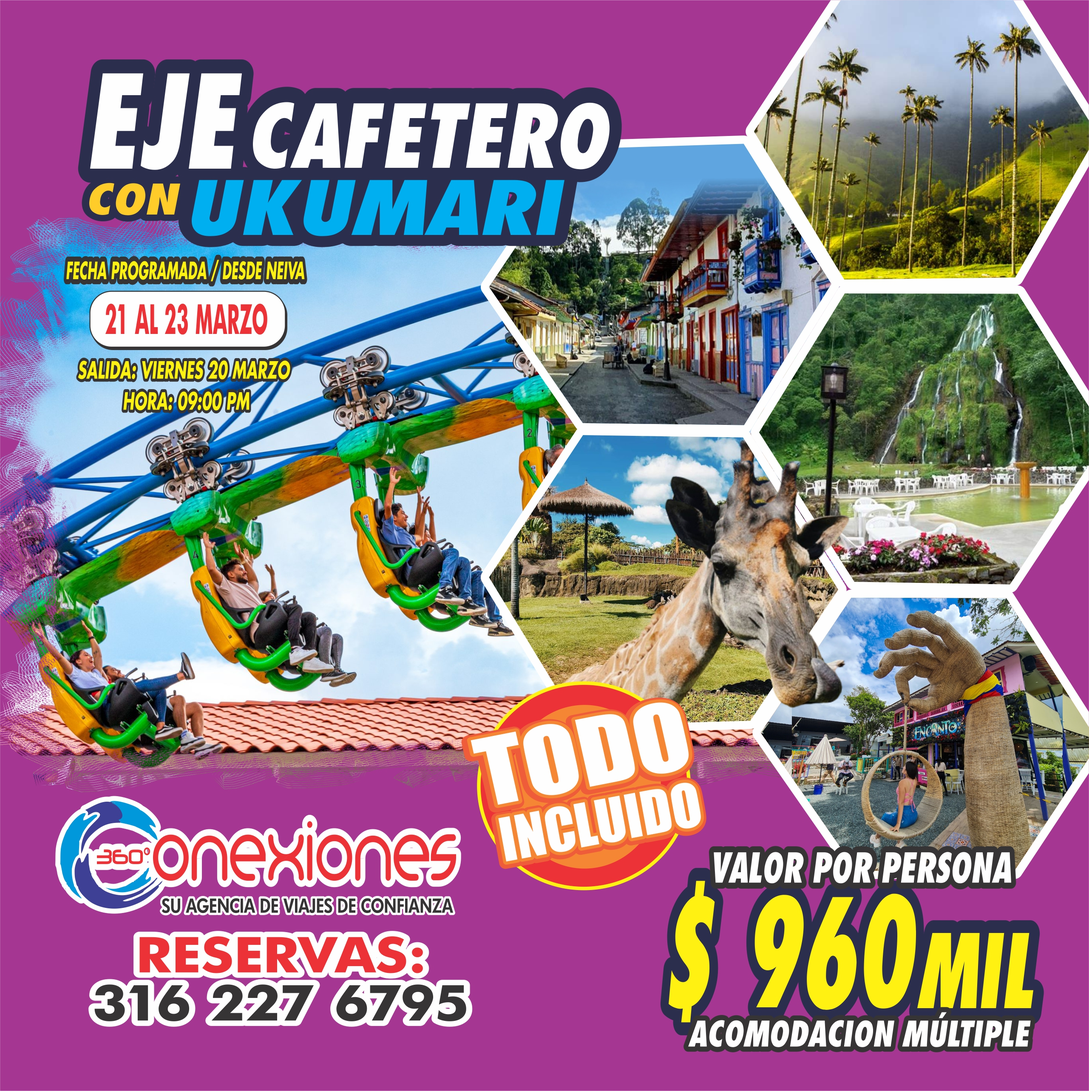
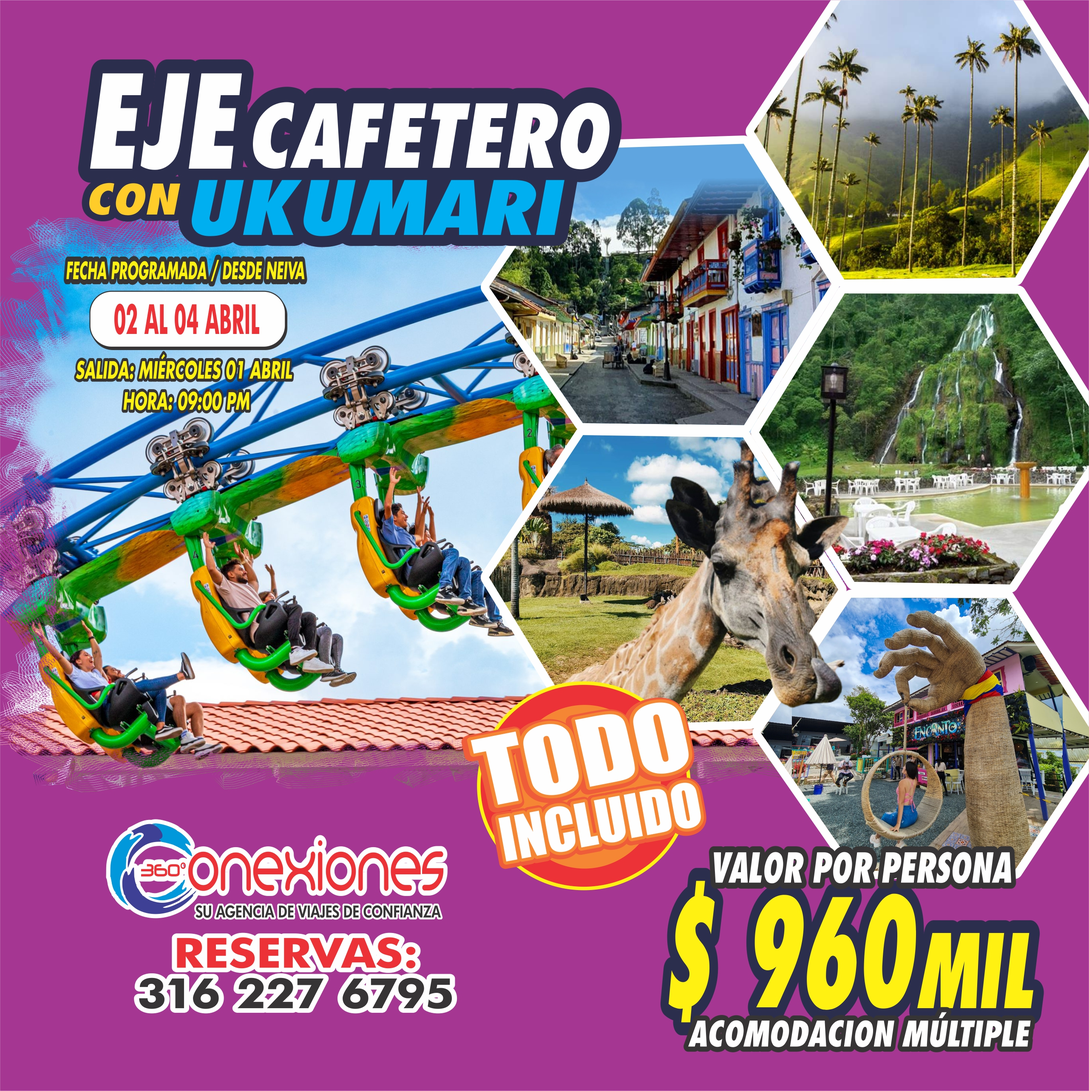
correccion abril

Changed region(s): [[0.0312, 0.7165, 0.4372, 0.9657], [0.0625, 0.2804, 0.281, 0.3738]]

diff --git a/src/data/flyers/flyers.ts b/src/data/flyers/flyers.ts
@@ -366,7 +366,7 @@ export const flyers: FlyerPlan[] = [
     mes: "abril",
     tipo: "terrestre",
     titulo: "Eje Cafetero",
-    fechas: ["Abril 1 al 4"],
+    fechas: ["Abril 2 al 4"],
     precio: 960000,
     imagen: "/Abril2026/ejecafe.jpg",
     whatsappBase:
@@ -424,7 +424,7 @@ export const flyers: FlyerPlan[] = [
     tipo: "terrestre",
     titulo: "Programación Mayo 2026",
     fechas: ["Mayo 1 - 31"],
-    precio: 145000,
+    precio: 170000,
     imagen: "/Mayo2026/lista.jpg",
     whatsappBase:
       "Hola Conexiones360, quiero información del plan Mayo 2026",
